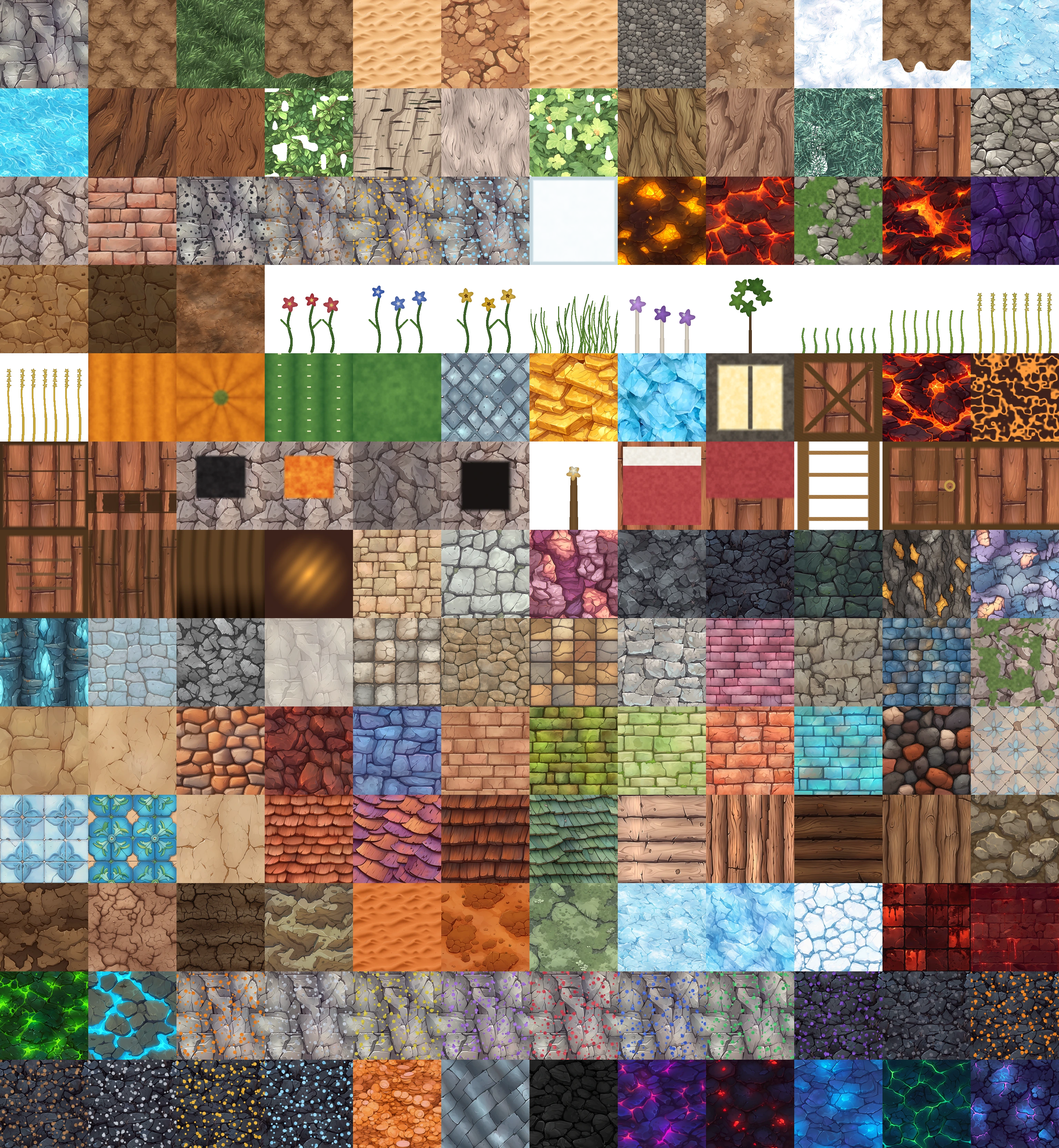
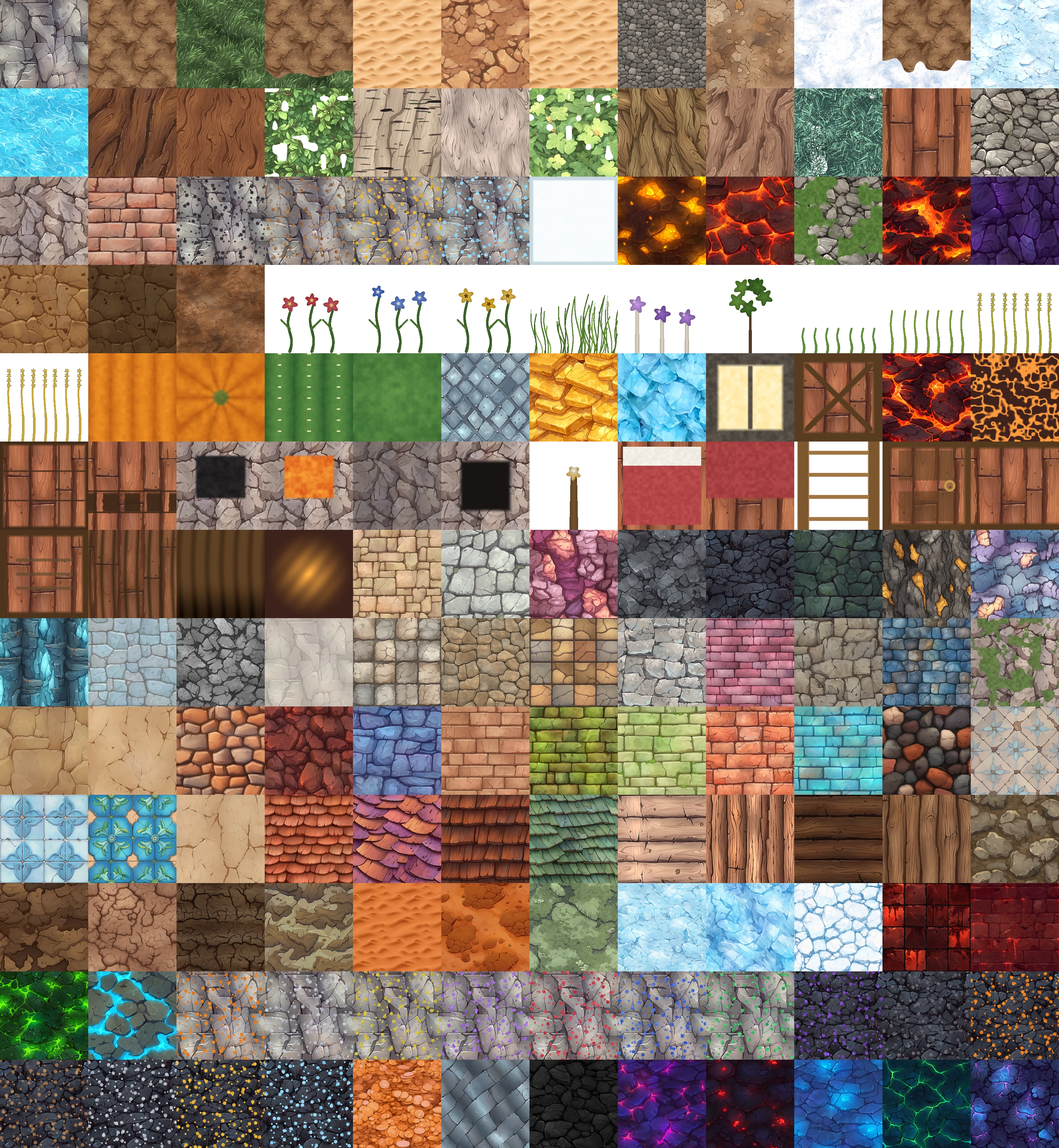
Put a grain on the snow and take the paint off the ice.
Snow/1 is the right picture for a drift and that choice stands - it was
already taken off Snow Ground/11 for having hard-edged cells, and this does
not put them back. But it measures a luminance std-dev of 12.9, the lowest of
any surface tile in the game, and a block face carrying almost no variation of
its own shows whatever the renderer puts on it instead: the per-block ambient
occlusion becomes the strongest signal on the surface and a drift comes out as
a stack of separately shaded cubes.

So the tile takes a fine crystal grain as a self-decal. Two things had to be
true at once: high spatial frequency, and no block-scale contrast, or the
reason Snow/1 was picked is undone. Written first as a quiet full-coverage
wash at alpha 0.55, which was exactly backwards - a decal is a lerp toward
itself, so it cannot add, and that version averaged 55% of the existing swirl
away and took std-dev from 12.9 down to 5.9. It is sparse specks now, at the
two tails of the grain's own range, and most of the work is in roughness:
0.26 on the lit crystals against 0.99 between them, which costs no
block-scale contrast at all and puts a sparkle on a sunlit drift.

Ice was 35 counts of luminance and 61 counts of r-b from the snow it is
always seen against - not ice in a drift, a cyan tile inset in a white floor
with the block join reading as a painted border. Real ice next to snow is
nearly as bright because it is the same water. Half the chroma out and the
[…]

Changed region(s): [[0.9062, 0.0, 1.0, 0.0938]]

diff --git a/src/render/TextureGen.js b/src/render/TextureGen.js
@@ -661,6 +661,59 @@ G.log_birch = (s) => {
   return s;
 };
 
+/**
+ * Snow grain.
+ *
+ * Snow/1 is the right PICTURE for a drift — soft wind-blown swirls, chosen over
+ * Snow Ground/11's hard-edged cells for exactly that reason, and that choice
+ * stands. But it measures a luminance std-dev of 12.9, the lowest of any
+ * surface tile in the game, and a block face carrying almost no variation of
+ * its own shows whatever the renderer puts on it instead: the per-block ambient
+ * occlusion becomes the strongest signal on the surface, and a drift comes out
+ * as a stack of separately-shaded cubes. That is the "styrofoam" report.
+ *
+ * The fix has to add variation WITHOUT adding block-scale contrast, or it
+ * undoes the reason Snow/1 was picked. So the grain is high-frequency (cells 74
+ * against the swirl's own handful), and it is written as SPARSE SPECKS rather
+ * than as a full-coverage wash.
+ *
+ * The specks matter, and the first version got this exactly wrong. A decal is
+ * composited by lerping toward the decal, so it can only ever pull the surface
+ * toward whatever it contains — it cannot add. A quiet grain laid over the
+ * whole tile at alpha 0.55 therefore did not add fine detail, it averaged away
+ * 55% of the swirl that was already there: measured, the tile's std-dev fell
+ * from 12.9 to 5.9, which is the reported defect made worse in the name of
+ * fixing it. Alpha now rises only at the top and bottom of the grain's own
+ * range, so most of the tile is untouched Snow/1 and the marks are crystals
+ * catching or dropping the light between them.
+ *
+ * The other half of the work is ROUGHNESS. Snow is packed crystal and it glints
+ * in patches; the composite lerps ARM by the same mask, so the glints land
+ * exactly where the bright specks are and nowhere else, which is what a sunlit
+ * drift does. Roughness range is deliberately wider than the albedo range —
+ * a specular sparkle costs no block-scale contrast at all.
+ */
+G.snow = (s) => {
+  clearAlpha(s);
+  const grain = fbm(s.size, 74, 2, 2311);
+  const clump = fbm(s.size, 22, 3, 2317);
+  s.each((i) => {
+    const g = grain[i] * 0.74 + clump[i] * 0.26;
+    // symmetric about the middle of the grain's range, so the two tails cancel
+    // in the mean and the tile stays at the 241,245,250 the fringe expects
+    const hi = smoothstep(0.60, 0.86, g), lo = smoothstep(0.40, 0.14, g);
+    const m = Math.max(hi, lo);
+    if (m <= 0.01) return;
+    setRGB(s, i, hi > lo ? px([252, 253, 255]) : px([223, 229, 242]));
+    s.a[i] = m * 0.85;
+    s.h[i] = 0.5 + (hi - lo) * 0.5;
+    s.ao[i] = 1 - lo * 0.10;
+    s.rough[i] = hi > lo ? 0.26 : 0.99;
+  });
+  s.normalStrength = 1.1;
+  return s;
+};
+
 G.glass = (s) => {
   const f = fbm(s.size, 12, 3, 541);
   s.each((i, x, y, u, v) => {
